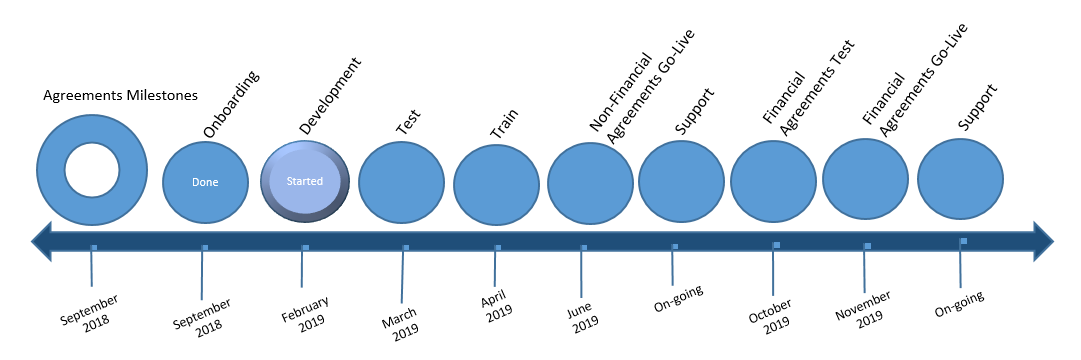
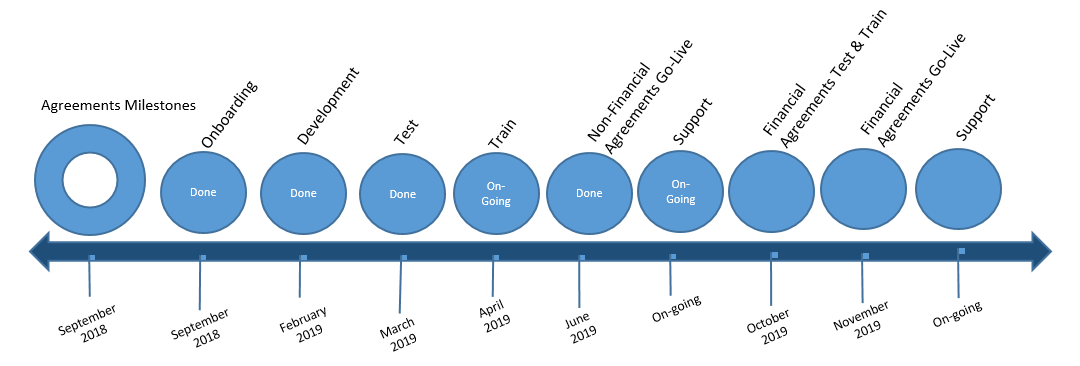
WAH-68: Wahoo website changes 5

diff --git a/index.html b/index.html
@@ -155,7 +155,7 @@
                     <h4 class="section-heading">Project Overview</h4>
 					<h3 class="section-subheading text-muted">Phase 2</h3></br>
 					<h4 class="service-heading">Phase 2 Timeline</h4>
-                <img class="img-responsive" src="img/Phase2timeline_2.png">
+                <img class="img-responsive" src="img/Phase2timeline.png">
                 </div>
             </div>
 					
@@ -425,13 +425,62 @@ For any study that has been approved by the IRB Office, Faculty Advisors should 
                   </div> <!-- cd-faq-content -->
               </li>
             </ul>
+            <hr class="hidden-xs hidden-sm" style="margin:auto; width:75%;">
+            
+            <div class="text-center">
+             <h3 class="section-subheading text-center text-muted" id="grants">IACUC Project</h3><br/>
+             <h4 class="service-heading">IACUC Timeline</h4>
+             <img class="img-responsive" src="img/IACUCtimeline.PNG"> <br/><br/>
+             <h4 class="service-heading">Important Information</h4>
+           </div>
+              <ul id="basics" class="cd-faq-group" style="list-style-type:none">
+                <li>
+                    <a class="cd-faq-trigger" href="#0">
+                        <span class="glyphicon glyphicon-menu-down more-less" aria-hidden="true"></span>
+                        What is it? 
+                    </a>
+                    <div class="cd-faq-content">
+                        <p>Huron IACUC facilitates high-quality, compliant reviews for research studies involving the care or use of animals. The system provides access to species, procedures, substances, training information and inspections to facilitate the submission and review process.</p>
+                    </div> <!-- cd-faq-content -->
+                </li>
+  
+                <li>
+                    <a class="cd-faq-trigger" href="#0">
+                        <span class="glyphicon glyphicon-menu-down more-less" aria-hidden="true"></span>
+                        Why is it important?
+                    </a>
+                    <div class="cd-faq-content">
+                        <p>Huron IACUC will be the first online program that UCF IACUC and the Office of Animal Welfare (OAW) will use to review research protocols involving animals. Huron IACUC allows researchers to create and update teams, substances, and procedures that will be able to be used across multiple protocols. Researchers will be able to submit protocols, update animal counts, and update animal information for the OAW to review</p>
+                    </div> <!-- cd-faq-content -->
+                </li>
+  
+                <li>
+                    <a class="cd-faq-trigger" href="#0">
+                        <span class="glyphicon glyphicon-menu-down more-less" aria-hidden="true"></span>
+                        When will it be implemented?
+                    </a>
+                    <div class="cd-faq-content">
+                        <p>Go Live of Huron IACUC is scheduled for September 2019.</p>
+                    </div> <!-- cd-faq-content -->
+                </li>
+              </ul>
+  
+            </div>
+           </div>
+          </div>
 
           </div>
          </div>
         </div>
+        
 			 <!-- cd-faq -->     
-		   </div>
-	    </div>        
+           </div>  
+        </div>        
+        
+           
+               <!-- cd-faq -->     
+             </div>
+          </div>        
     </section>
 
   <!-- Team -->
@@ -479,39 +528,38 @@ For any study that has been approved by the IRB Office, Faculty Advisors should 
                             <u><h4>Steering Committee</h4></u>  
                             <em>Provide advice & ensure project delivery by defining outcomes</em><br>
                             <ul class="list-group">
-                                <li class="list-group-item">Dorothy Yates</li>
-                                <li class="list-group-item">Dr. Joel Hartman</li>
-                                <li class="list-group-item">Rebecca Vilsack</li>
-                                <li class="list-group-item"> Dr. Ivan Garibay</li>
-                                <li class="list-group-item">Michael Sink</li>
-                                <li class="list-group-item">Tracy Clark</li>
-                                <li class="list-group-item">Dr. Debra Reinhart</li>
+                                <li class="list-group-item"> Dr. Elizabeth Dooley (Chair)</li>
+                                <li class="list-group-item">Dr. Elizabeth Klonoff</li>
+                                <li class="list-group-item"> Dorothy Yates</li>
+                                <li class="list-group-item"> Dr. Joel Hartman</li>
+                                <li class="list-group-item"> Maureen Binder</li>
+                                <li class="list-group-item"> Kathy Mitchell</li>
+                            
                             </ul>
                         </div>
                   </div>
       
                   <div class="col-md-4">
                         <div class="team-member">
-                             <u><h4>Functional Leads</h4></u> 
-                             <ul class="list-group">
-                                 <li class="list-group-item">Dr. Debbie Altomare</li>
-                                 <li class="list-group-item">Doug Backman</li>
-                                 <li class="list-group-item">Michelle Greco</li>
-                                 <li class="list-group-item">Dr. Jennifer Shambrook</li>
-                             </ul>
+                            <u><h4>Core Team</h4></u> 
+                            <em>Responsible for day-to-day leadership</em><br><br>
+                            <ul class="list-group">
+                                <li class="list-group-item">Dr. Ozlem Garibay</li>
+                                <li class="list-group-item">Chad Macuszonok</li>
+                                <li class="list-group-item">Chris Meholic</li>
+                                <li class="list-group-item">Doug Bauman (Huron)</li>
+                                <li class="list-group-item">Alan Dull (Huron)</li>
+                                <li class="list-group-item"> Jennifer Pavelec (Huron)</li>
+                            </ul>
                       </div>
                  </div>
            
                  <div class="col-sm-4">
                         <div class="team-member">
-                             <u><h4>Core Team</h4></u> 
-                             <em>Responsible for day-to-day leadership</em><br><br>
-        					 <ul class="list-group">
-                                 <li class="list-group-item">Dr. Ozlem Garibay</li>
-                                 <li class="list-group-item">Chad Macuszonok</li>
+                            <u><h4>Change Management</h4></u> 
+                            <em>Organizational readiness</em><br><br>
+                             <ul class="list-group">	
                                  <li class="list-group-item">Chris Meholic</li>
-                                 <li class="list-group-item">Doug Bauman (Huron)</li>
-                                 <li class="list-group-item">Alan Dull (Huron)</li>
                              </ul>
 	                    </div>
                   </div>
@@ -520,47 +568,38 @@ For any study that has been approved by the IRB Office, Faculty Advisors should 
             <div class="row">
                   <div class="col-sm-4">
                         <div class="team-member">
-                             <u><h4>Change Management</h4></u> 
-                             <em>Organizational readiness</em><br><br>
-                			  <ul class="list-group">	
-	                              <li class="list-group-item">Dr. Susie Sedwick (Attain)</li>
-                              </ul>
-                        </div>
-                  </div>
-                  <div class="col-sm-4">
-                        <div class="team-member">
                             <u><h4>Business Analysts</h4></u>
                 			<ul class="list-group">
                               <li class="list-group-item">Christine Silver</li>
 	                            <li class="list-group-item">Jennifer Bouvier</li>
-    	                        <li class="list-group-item">Nicholas Rufrano</li>
+                                <li class="list-group-item">Nicholas Rufrano</li>
+                                <li class="list-group-item"> Wilfredo Cornelio</li>
                             </ul>
                         </div>
                   </div>
                   <div class="col-sm-4">
                         <div class="team-member">
-                          <u><h4>Project Manager</h4></u>
-                          <em>Ensures core team is fully engaged throughout the project; Sets and tracks project plans</em><br>
-				          <ul class="list-group">
-	                          <li class="list-group-item">Chris Meholic </li>
-                          </ul>
+                            <u><h4>Project Manager</h4></u>
+                            <em>Ensures core team is fully engaged throughout the project; Sets and tracks project plans</em><br>
+                            <ul class="list-group">
+                                <li class="list-group-item">Chris Meholic </li>
+                            </ul>
+                        </div>
+                  </div>
+                  <div class="col-sm-4">
+                        <div class="team-member">
+                            <u><h4>Technical Team</h4></u> 
+                            <ul class="list-group">
+                                 <li class="list-group-item">Shafaq Chaudhry</li>
+                                 <li class="list-group-item">Jason Kuhns</li>
+                                 <li class="list-group-item">Raghu Avula</li>
+                                 <li class="list-group-item">Ezequiel Gioia</li>
+                            </ul>
                         </div>
                   </div>
             </div>
 
-            <div class="row">
-                  <div class="col-sm-4">
-                        <div class="team-member">
-                          <u><h4>Technical Team</h4></u> 
-                          <ul class="list-group">
-                               <li class="list-group-item">Shafaq Chaudhry</li>
-                               <li class="list-group-item">Jason Kuhns</li>
-                               <li class="list-group-item">Raghu Avula</li>
-                               <li class="list-group-item">Ezequiel Gioia</li>
-                          </ul>
-                        </div>
-                  </div>
-            </div>
+            
             
             </div class="row">
                   <div class="text-center">
@@ -642,16 +681,16 @@ For any study that has been approved by the IRB Office, Faculty Advisors should 
                     </div> <!-- cd-faq-content -->
                 </li>
                 <li>
-                    <a class="cd-faq-trigger" href="#0">FSS Began Implementation. <span class="glyphicon glyphicon-menu-down more-less" aria-hidden="true"></span></a>
+                    <a class="cd-faq-trigger" href="#0">Huron IRB Go Live  <span class="glyphicon glyphicon-menu-down more-less" aria-hidden="true"></span></a>
                     <div class="cd-faq-content">
-                        <p>Financial Support Services (FSS) began implementing a university-wide, redesigned Chart of Accounts (CoA), which will support the PeopleSoft Grants Module</p>
+                        <p>Huron IRB was successfully released into production on December 21, 2018.</p>
                     </div> <!-- cd-faq-content -->
                 </li>
 
                 <li>
-                    <a class="cd-faq-trigger" href="#0">COA Redesign. <span class="glyphicon glyphicon-menu-down more-less" aria-hidden="true"></span></a>
+                    <a class="cd-faq-trigger" href="#0">Huron Agreements Go Live <span class="glyphicon glyphicon-menu-down more-less" aria-hidden="true"></span></a>
                     <div class="cd-faq-content">
-                        <p>Implementation of a standard, multi-dimensional CoA structure will meet the university’s evolving needs for greater flexibility in budgeting, financial management, and reporting. Redesigning the CoA was a key initial finding of Program Wahoo to help standardize the university business processes.</p>
+                        <p>Huron Agreements (for non-financial agreements) was successfully released into production on June 17, 2019.</p>
                     </div> <!-- cd-faq-content -->
                 </li>
            
@@ -911,7 +950,7 @@ For any study that has been approved by the IRB Office, Faculty Advisors should 
 
     <!-- Last Updated -->
     <div class="icon-bar" id="collapsecontent"> 
-         <a href="#" class="facebook"> Last updated on: <strong>04/17/2019</strong>  </a>
+         <a href="#" class="facebook"> Last updated on: <strong>07/09/2019</strong>  </a>
     </div>
     
 </body>
